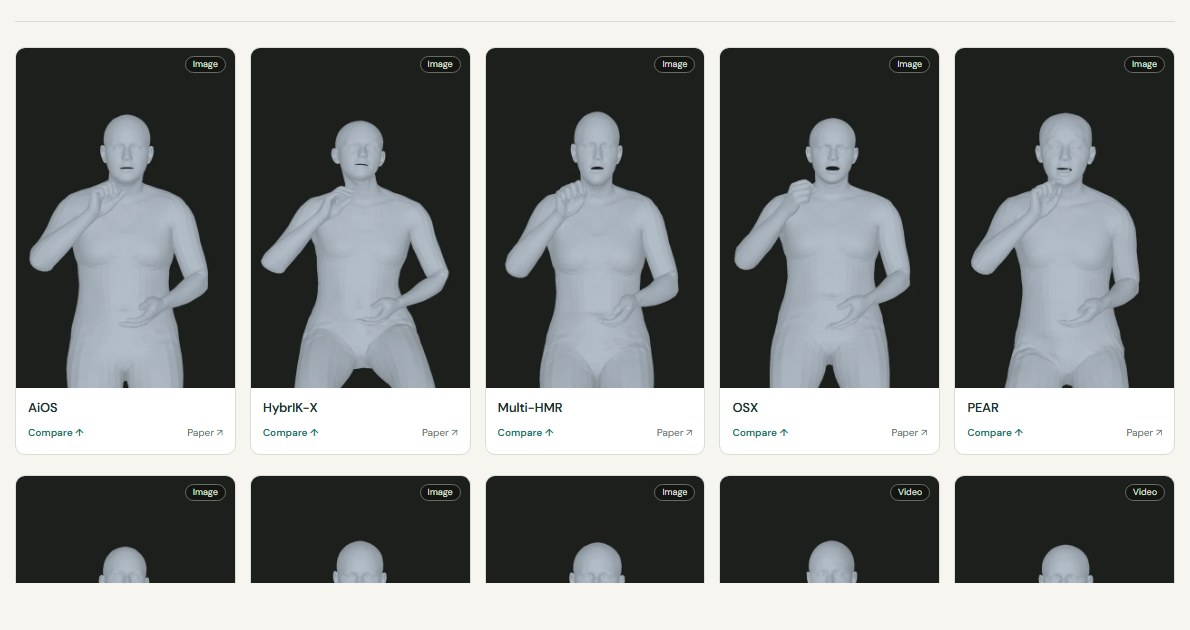
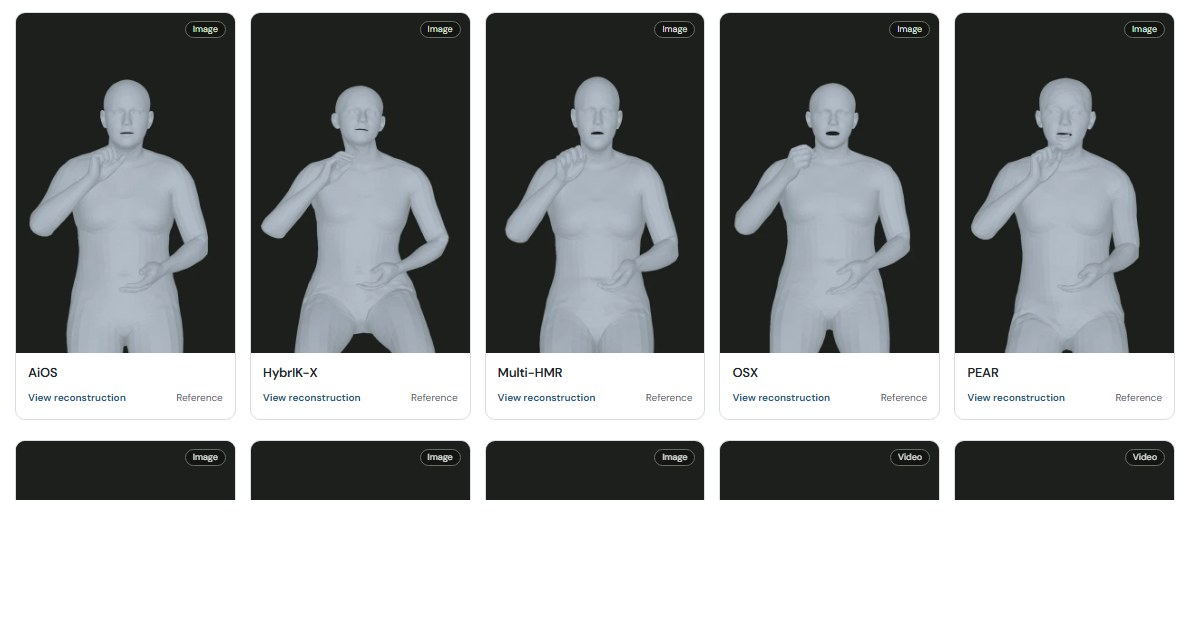
Use the article title and scientific presentation

diff --git a/index.html b/index.html
@@ -1,102 +1,82 @@
-<!doctype html>
+<!DOCTYPE html>
+
 <html lang="en">
 <head>
-  <meta charset="utf-8">
-  <meta name="viewport" content="width=device-width, initial-scale=1">
-  <meta name="theme-color" content="#f6f5f0">
-  <meta name="description" content="A visual study of how ten methods reconstruct sign language in 3D. Explore the methods, datasets, camera alignment, and body, face and hand results.">
-  <meta property="og:title" content="Sign in 3D — A sign is more than a pose">
-  <meta property="og:description" content="Ten methods. Three datasets. A closer look at the body, face and hands.">
-  <meta property="og:type" content="website">
-  <meta property="og:image" content="https://slate-uv.github.io/sign-in-3d/assets/images/social.jpg">
-  <link rel="canonical" href="https://slate-uv.github.io/sign-in-3d/">
-  <meta property="og:url" content="https://slate-uv.github.io/sign-in-3d/">
-  <title>Sign in 3D — A sign is more than a pose</title>
-  <link rel="icon" href="assets/favicon.svg" type="image/svg+xml">
-  <link rel="stylesheet" href="assets/fonts/body.css">
-  <link rel="stylesheet" href="assets/fonts/display.css">
-  <link rel="stylesheet" href="styles.css">
-  <script src="assets/results.js" defer></script>
-  <script src="app.js" defer></script>
+<meta charset="utf-8"/>
+<meta content="width=device-width, initial-scale=1" name="viewport"/>
+<meta content="#f6f5f0" name="theme-color"/>
+<meta content="Cross-corpus evaluation of ten human mesh recovery methods using regional mean reprojection error on PHOENIX-2014-T, CSL-Daily, and LSCh (OF-HMR)." name="description"/>
+<meta content="Cross-Corpus Evaluation of Multiple Pose Estimation Methods for Sign Language: Towards Metrics for Accurate Sign Representation" property="og:title"/>
+<meta content="Cross-corpus evaluation of ten human mesh recovery methods using regional mean reprojection error on PHOENIX-2014-T, CSL-Daily, and LSCh (OF-HMR)." property="og:description"/>
+<meta content="website" property="og:type"/>
+<meta content="https://slate-uv.github.io/cross-corpus-pose-evaluation/assets/images/social.jpg" property="og:image"/>
+<link href="https://slate-uv.github.io/cross-corpus-pose-evaluation/" rel="canonical"/>
+<meta content="https://slate-uv.github.io/cross-corpus-pose-evaluation/" property="og:url"/>
+<title>Cross-Corpus Evaluation of Multiple Pose Estimation Methods for Sign Language: Towards Metrics for Accurate Sign Representation</title>
+<link href="assets/favicon.svg" rel="icon" type="image/svg+xml"/>
+<link href="assets/fonts/body.css" rel="stylesheet"/>
+
+<link href="styles.css" rel="stylesheet"/>
+<script defer="" src="assets/results.js"></script>
+<script defer="" src="app.js"></script>
 </head>
 <body>
-  <a class="skip" href="#main">Skip to the study</a>
-  <header class="site-header">
-    <div class="nav-wrap">
-      <a class="brand" href="#main" aria-label="Sign in 3D, home"><span class="brand-symbol" aria-hidden="true">S<span>³</span></span> Sign in <strong>3D</strong></a>
-      <nav aria-label="Main navigation"><a href="#methods">Methods</a><a href="#datasets">Datasets</a><a href="#alignment">Alignment</a><a href="#results">Results</a></nav>
-      <a class="study-link" href="assets/study.pdf" target="_blank" rel="noopener">Read the study <span aria-hidden="true">↗</span></a>
-    </div>
-  </header>
-
-  <main id="main">
-    <section class="hero section-shell" aria-labelledby="hero-title">
-      <div class="hero-intro">
-        <div><p class="eyebrow"><span class="live-dot" aria-hidden="true"></span> Sign language · Human mesh recovery</p><h1 id="hero-title">A sign is more<br>than a <em>pose.</em></h1></div>
-        <div class="hero-copy"><p>Small movements carry meaning.</p><p>We compare how ten methods reconstruct a signer’s body, face and hands in 3D—and how better camera alignment changes the result.</p><a class="text-link" href="#results">Explore the findings <span aria-hidden="true">↓</span></a></div>
-      </div>
-
-      <div class="demo" id="comparison">
-        <div class="demo-toolbar"><div class="tabs" id="demo-tabs" role="group" aria-label="Choose a dataset"><button class="active" type="button" data-dataset="lsch" aria-pressed="true">LSCh</button><button type="button" data-dataset="phoenix" aria-pressed="false">PHOENIX</button><button type="button" data-dataset="csl" aria-pressed="false">CSL-Daily</button></div><label class="method-select">Method <select id="demo-method" aria-label="Choose a reconstruction method"><option>PEAR</option></select><span aria-hidden="true">⌄</span></label></div>
-        <div class="video-pair hero-pair">
-          <figure class="video-panel"><div class="panel-label"><span class="panel-dot original-dot"></span>Original video</div><video id="demo-original" muted playsinline preload="metadata" poster="assets/images/lsch-source.webp" aria-label="Original Chilean Sign Language recording"></video></figure>
-          <figure class="video-panel mesh-panel"><div class="panel-label"><span class="panel-dot mesh-dot"></span><span id="demo-reconstruction-label">PEAR reconstruction</span></div><video id="demo-mesh" muted playsinline preload="metadata" poster="assets/images/lsch-pear.webp" aria-label="Three-dimensional reconstruction of the same signing"></video><span class="corner-note">Same moment. Same viewpoint.</span></figure>
-        </div>
-        <div class="playback"><button class="play-button" id="demo-play" type="button" aria-label="Play synchronized comparison"><span class="play-icon" aria-hidden="true">▶</span><span class="play-text">Play comparison</span></button><input id="demo-progress" class="timeline" type="range" min="0" max="1000" value="0" aria-label="Comparison playback position"><span class="playback-time" id="demo-time">0:00</span><button class="replay-button" id="demo-replay" type="button" aria-label="Replay comparison">↺</button></div>
-        <p class="demo-caption" id="demo-caption">Chilean Sign Language · LSCh (OF-HMR)</p>
-      </div>
-
-      <div class="stat-row" aria-label="Scope of the shared evaluation"><div><strong>10</strong><span>methods compared</span></div><div><strong>3</strong><span>datasets evaluated</span></div><div><strong>79</strong><span>signing sequences</span></div><div><strong>790</strong><span>3D reconstructions</span></div></div>
-      <div class="research-credit"><span>Miguel Yáñez &amp; Ana Aguilera</span><span>Universidad de Valparaíso, Chile</span></div>
-    </section>
-
-    <section class="journey section-shell" aria-labelledby="journey-title">
-      <div class="section-heading compact"><p class="section-index">The study, at a glance</p><h2 id="journey-title">From a video to a fair comparison.</h2></div>
-      <ol class="journey-track"><li><span>01</span><strong>Gather the methods</strong><p>Review approaches that recover a full 3D person.</p></li><li><span>02</span><strong>Bring the data together</strong><p>Keep the original frames, timing and order.</p></li><li><span>03</span><strong>Reconstruct the signer</strong><p>Give every method the same video.</p></li><li><span>04</span><strong>Align the camera</strong><p>Match the viewpoint, size and placement.</p></li><li><span>05</span><strong>Look closer</strong><p>Measure the body, face and each hand.</p></li></ol>
-    </section>
-
-    <section class="methods-section section-shell" id="methods" aria-labelledby="methods-title">
-      <div class="section-heading"><div><p class="section-index">01 / The methods</p><h2 id="methods-title">Ten ways to recover<br>a person in <em>3D.</em></h2></div><p>Human Mesh Recovery turns an ordinary image or video into a 3D human model. We brought together methods that represent the body, articulated hands and face.</p></div>
-      <div class="selection-line"><span><strong>12</strong> approaches in the initial collection</span><span aria-hidden="true">→</span><span><strong>10</strong> in the single-camera comparison</span><span class="selection-note">8 image methods · 2 video methods</span></div>
-      <div id="method-grid" class="method-grid" aria-label="The ten evaluated methods"></div>
-      <div class="multi-view-note"><span class="small-label">Also reviewed</span><strong>MAMMA &amp; MKA</strong><p>The reviewed configurations use multiple camera views, so they sit outside this single-camera comparison.</p></div>
-    </section>
-
-    <section class="dataset-band" id="datasets" aria-labelledby="datasets-title"><div class="section-shell">
-      <div class="section-heading"><div><p class="section-index">02 / The datasets</p><h2 id="datasets-title">Different languages.<br>Different recording conditions.</h2></div><p>Weather broadcasts, daily conversations and controlled recordings bring different challenges. We preserve each sequence’s original order and timing.</p></div>
-      <div id="dataset-grid" class="dataset-grid"></div>
-      <div class="pilot-row"><img src="assets/images/how2sign-source.webp" alt="American Sign Language signer from the How2Sign pilot" width="240" height="135" loading="lazy"><div><span class="small-label">Earlier exploration · American Sign Language</span><h3>How2Sign</h3><p>A short pilot helped examine where hand-position scores and visible finger shapes disagree.</p><div class="pilot-links"><button id="pilot-open" class="text-link" type="button">Watch the pilot <span aria-hidden="true">↗</span></button><a href="https://how2sign.github.io/" target="_blank" rel="noopener">About the dataset ↗</a></div></div><span class="pilot-badge">Pilot study</span></div>
-    </div></section>
-
-    <section class="alignment-section section-shell" id="alignment" aria-labelledby="alignment-title">
-      <div class="section-heading"><div><p class="section-index">03 / The alignment</p><h2 id="alignment-title">Right motion.<br>Better <em>placement.</em></h2></div><p>A reconstruction can appear too small, too low or too far away. We adjust the camera and the model’s placement to match the recording, while keeping its articulated pose and body shape.</p></div>
-      <div class="alignment-toolbar"><span class="small-label">Multi-HMR · Before &amp; after</span><div class="tabs" id="alignment-tabs" role="group" aria-label="Choose an alignment example"><button class="active" type="button" data-dataset="csl" aria-pressed="true">CSL-Daily</button><button type="button" data-dataset="phoenix" aria-pressed="false">PHOENIX</button><button type="button" data-dataset="lsch" aria-pressed="false">LSCh</button></div></div>
-      <div class="alignment-view"><figure class="video-panel"><div class="panel-label">Original</div><video id="alignment-original" muted playsinline preload="none" poster="assets/images/csl-source.webp" aria-label="Original recording for the alignment comparison"></video></figure><figure class="video-panel mesh-panel"><div class="panel-label"><span class="before-dot panel-dot"></span>Before alignment</div><video id="alignment-before" muted playsinline preload="none" poster="assets/images/csl-before.webp" aria-label="Reconstruction before camera alignment"></video></figure><figure class="video-panel mesh-panel"><div class="panel-label"><span class="mesh-dot panel-dot"></span>After alignment</div><video id="alignment-after" muted playsinline preload="none" poster="assets/images/csl-multi-hmr.webp" aria-label="Reconstruction after camera alignment"></video></figure></div>
-      <div class="playback alignment-playback"><button class="play-button" id="alignment-play" type="button" aria-label="Play synchronized alignment comparison"><span class="play-icon" aria-hidden="true">▶</span><span class="play-text">Play comparison</span></button><input id="alignment-progress" class="timeline" type="range" min="0" max="1000" value="0" aria-label="Alignment playback position"><span class="playback-time" id="alignment-time">0:00</span><button class="replay-button" id="alignment-replay" type="button" aria-label="Replay alignment comparison">↺</button></div>
-      <div class="alignment-principles"><div><span aria-hidden="true">↔</span><strong>Match the viewpoint</strong><p>Adjust camera scale, position and perspective.</p></div><div><span aria-hidden="true">◯</span><strong>Keep the person intact</strong><p>Preserve body dimensions and articulated pose.</p></div><div><span aria-hidden="true">✓</span><strong>Check the whole sequence</strong><p>Review regional errors, motion and head visibility.</p></div></div>
-    </section>
-
-    <section class="detail-band" id="details" aria-labelledby="details-title"><div class="section-shell detail-layout"><div><p class="section-index">04 / Why the details matter</p><h2 id="details-title">A small average error<br>can hide a different<br><em>hand shape.</em></h2><p>Finger position, hand shape and facial expression all contribute to signing. A single whole-body score cannot tell the whole story.</p><p class="detail-takeaway">So we look at the body, face and each hand separately—and inspect the matching images.</p></div><figure class="hand-figure"><div class="hand-labels"><span>Original</span><span>PyMAF-X</span><span>PEAR</span><span>Multi-HMR</span></div><img src="assets/images/hand-closeups.webp" alt="The same right hand in the original recording and three reconstructions, showing different finger shapes" loading="lazy" width="1600" height="250"><figcaption>The same right hand. Different reconstructions.</figcaption></figure></div></section>
-
-    <section class="results-section section-shell" id="results" aria-labelledby="results-title">
-      <div class="section-heading"><div><p class="section-index">05 / The results</p><h2 id="results-title">Look at every part.</h2></div><p>We measure the distance between matching points in the original image and the 3D reconstruction, seen through its camera. Smaller distances mean closer alignment.</p></div>
-      <div class="result-controls"><div class="tabs" id="result-tabs" role="group" aria-label="Choose results dataset"><button class="active" type="button" data-dataset="phoenix" aria-pressed="true">PHOENIX</button><button type="button" data-dataset="csl" aria-pressed="false">CSL-Daily</button><button type="button" data-dataset="lsch" aria-pressed="false">LSCh</button></div><label class="metric-select">Compare <select id="result-metric" aria-label="Choose the error measure"><option value="mre">Overall</option><option value="body">Body</option><option value="face">Face</option><option value="left_hand">Left hand</option><option value="right_hand">Right hand</option></select></label></div>
-      <div class="chart-heading"><div><h3 id="chart-title">Overall alignment</h3><p id="chart-subtitle">PHOENIX-2014-T · 42 sequences</p></div><span class="lower-badge"><span aria-hidden="true">↓</span> Lower is better</span></div>
-      <div id="result-chart" class="result-chart" role="img" aria-label="Mean reprojection errors for the ten methods"></div>
-      <div class="chart-footnote"><span>Average distance in pixels</span><span>One dataset at a time: image sizes differ.</span></div>
-      <div class="finding" id="result-finding" aria-live="polite"></div>
-      <div class="table-heading"><h3>All five measures</h3><span>Mean ± variation between sequences · pixels</span></div>
-      <div class="table-scroll" tabindex="0" role="region" aria-label="Detailed results; scroll horizontally on small screens"><table id="results-table"><caption id="results-caption">PHOENIX-2014-T results</caption><thead><tr><th scope="col">Method</th><th scope="col">Overall MRE</th><th scope="col">Body</th><th scope="col">Face</th><th scope="col">Left hand</th><th scope="col">Right hand</th></tr></thead><tbody></tbody></table></div>
-      <p class="measurement-note" id="measurement-note"></p>
-      <details class="measurement-details"><summary>What is being measured?<span aria-hidden="true">+</span></summary><div><p><strong>MRE</strong> means mean reprojection error: the average distance between corresponding points, measured in the original image’s pixels.</p><p>The comparison uses 99 points: six body points at the shoulders, elbows and wrists; 51 points inside the face; and 21 points per hand. Body error excludes face and finger points. All ten methods use the same eligible observations.</p><p>Errors are averaged within each sequence, then across sequences. The ± value is the sample standard deviation. Bold values mark the lowest mean in each column.</p><p>The reference points are estimated automatically. Camera alignment uses those same references. These results describe 2D agreement on the evaluated sequences; they do not establish 3D accuracy or preservation of linguistic meaning.</p></div></details>
-    </section>
-
-    <section class="closing-section section-shell"><p class="section-index">What this work brings together</p><h2>A shared way to look<br><em>closer at signing.</em></h2><p>A collection of reconstruction methods. A common evaluation across three datasets. Camera alignment that preserves the pose. And a separate look at every hand.</p><a class="button-primary" href="assets/study.pdf" target="_blank" rel="noopener">Read the full study <span aria-hidden="true">↗</span></a><span class="evaluation-date">Shared evaluation · 25 October 2026</span></section>
-  </main>
-
-  <footer class="site-footer section-shell"><div><a class="brand" href="#main">Sign in <strong>3D</strong></a><p>Miguel Yáñez &amp; Ana Aguilera<br>Universidad de Valparaíso, Chile</p></div><div class="footer-sources"><span class="small-label">Dataset sources</span><a href="https://www-i6.informatik.rwth-aachen.de/~koller/RWTH-PHOENIX-2014-T/" target="_blank" rel="noopener">RWTH-PHOENIX-2014-T ↗</a><a href="https://ustc-slr.github.io/datasets/2021_csl_daily/" target="_blank" rel="noopener">CSL-Daily ↗</a><a href="https://how2sign.github.io/" target="_blank" rel="noopener">How2Sign ↗</a></div><div class="media-credit"><span class="small-label">Research media</span><p>Recordings are credited to their respective datasets. LSCh examples are from OF-HMR.</p><p>How2Sign: Duarte et al., CVPR 2021 · <a href="https://creativecommons.org/licenses/by-nc/4.0/" target="_blank" rel="noopener">CC BY-NC 4.0</a>. Excerpts are resized for display.</p></div></footer>
-
-  <dialog id="pilot-dialog" aria-labelledby="pilot-title"><div class="dialog-heading"><div><span class="small-label">Earlier exploration</span><h2 id="pilot-title">How2Sign · American Sign Language</h2></div><button id="pilot-close" type="button" class="dialog-close" aria-label="Close pilot comparison">×</button></div><div class="video-pair"><figure class="video-panel"><div class="panel-label">Original</div><video id="pilot-original" muted playsinline preload="none" poster="assets/images/how2sign-source.webp" aria-label="Original How2Sign pilot sequence"></video></figure><figure class="video-panel mesh-panel"><div class="panel-label">Multi-HMR reconstruction</div><video id="pilot-mesh" muted playsinline preload="none" poster="assets/images/how2sign-reconstruction.webp" aria-label="Multi-HMR reconstruction of the How2Sign pilot"></video></figure></div><div class="playback"><button id="pilot-play" class="play-button" type="button"><span class="play-icon" aria-hidden="true">▶</span><span class="play-text">Play comparison</span></button><input id="pilot-progress" class="timeline" type="range" min="0" max="1000" value="0" aria-label="Pilot comparison playback position"><span class="playback-time" id="pilot-time">0:00</span><button id="pilot-replay" class="replay-button" type="button" aria-label="Replay pilot comparison">↺</button></div><p class="dialog-note">An exploratory sequence, separate from the three-dataset results above. How2Sign: Duarte et al., CVPR 2021.</p></dialog>
-  <noscript><p class="noscript-note">Interactive comparisons need JavaScript. The full study is available above.</p></noscript>
+<a class="skip" href="#main">Skip to the study</a>
+<header class="site-header">
+<div class="nav-wrap">
+<nav aria-label="Main navigation"><a href="#methods">Methods</a><a href="#datasets">Datasets</a><a href="#alignment">Alignment</a><a href="#results">Results</a></nav>
+</div>
+</header>
+<main id="main">
+<section aria-labelledby="hero-title" class="hero section-shell">
+<div class="hero-intro"><h1 id="hero-title">Cross-Corpus Evaluation of Multiple Pose Estimation Methods for Sign Language: Towards Metrics for Accurate Sign Representation</h1><div class="article-authors">Miguel Yáñez &amp; Ana Aguilera</div><p class="article-affiliation">Universidad de Valparaíso, Chile</p><div class="article-abstract"><h2>Abstract</h2><p>Ten human mesh recovery methods are evaluated on PHOENIX-2014-T, CSL-Daily, and Chilean Sign Language recordings from OF-HMR. The comparison includes 79 sequences, 7,002 source frames, and 790 reconstructions. Camera and placement alignment preserve articulated pose and body dimensions. Mean reprojection error is reported separately for the body, face, left hand, and right hand.</p></div></div>
+<div class="demo" id="comparison">
+<div class="demo-toolbar"><div aria-label="Choose a dataset" class="tabs" id="demo-tabs" role="group"><button aria-pressed="true" class="active" data-dataset="lsch" type="button">LSCh</button><button aria-pressed="false" data-dataset="phoenix" type="button">PHOENIX</button><button aria-pressed="false" data-dataset="csl" type="button">CSL-Daily</button></div><label class="method-select">Method <select aria-label="Choose a reconstruction method" id="demo-method"><option>PEAR</option></select><span aria-hidden="true">⌄</span></label></div>
+<div class="video-pair hero-pair">
+<figure class="video-panel"><div class="panel-label"><span class="panel-dot original-dot"></span>Original video</div><video aria-label="Original Chilean Sign Language recording" id="demo-original" muted="" playsinline="" poster="assets/images/lsch-source.webp" preload="metadata"></video></figure>
+<figure class="video-panel mesh-panel"><div class="panel-label"><span class="panel-dot mesh-dot"></span><span id="demo-reconstruction-label">PEAR reconstruction</span></div><video aria-label="Three-dimensional reconstruction of the same signing" id="demo-mesh" muted="" playsinline="" poster="assets/images/lsch-pear.webp" preload="metadata"></video></figure>
+</div>
+<div class="playback"><button aria-label="Play synchronized comparison" class="play-button" id="demo-play" type="button"><span aria-hidden="true" class="play-icon">▶</span><span class="play-text">Play comparison</span></button><input aria-label="Comparison playback position" class="timeline" id="demo-progress" max="1000" min="0" type="range" value="0"/><span class="playback-time" id="demo-time">0:00</span><button aria-label="Replay comparison" class="replay-button" id="demo-replay" type="button">↺</button></div>
+<p class="demo-caption" id="demo-caption">Chilean Sign Language · LSCh (OF-HMR)</p>
+</div>
+</section>
+<section aria-labelledby="journey-title" class="journey section-shell">
+<div class="section-heading compact"><h2 id="journey-title">Evaluation protocol</h2></div>
+<ol class="journey-track"><li><span>01</span><strong>Method selection</strong><p>Monocular reconstruction of the body, articulated hands, and face.</p></li><li><span>02</span><strong>Dataset preparation</strong><p>Original frame order, image dimensions, and recording rate.</p></li><li><span>03</span><strong>3D reconstruction</strong><p>Identical source sequences for all evaluated methods.</p></li><li><span>04</span><strong>Camera alignment</strong><p>Camera intrinsics and source-driven placement estimation.</p></li><li><span>05</span><strong>Regional evaluation</strong><p>Overall, body, face, and separate left- and right-hand errors.</p></li></ol>
+</section>
+<section aria-labelledby="methods-title" class="methods-section section-shell" id="methods">
+<div class="section-heading"><div><h2 id="methods-title">1. HMR methods</h2></div><p>Selected methods reconstruct the body, articulated hands, and facial expression from monocular RGB images or video.</p></div>
+<div aria-label="The ten evaluated methods" class="method-grid" id="method-grid"></div>
+<div class="multi-view-note"><span class="small-label">Multiview methods</span><strong>MAMMA &amp; MKA</strong><p>MAMMA and the reviewed MKA configuration require calibrated multiview input and were excluded from the monocular comparison.</p></div>
+</section>
+<section aria-labelledby="datasets-title" class="dataset-band" id="datasets"><div class="section-shell">
+<div class="section-heading"><div><h2 id="datasets-title">2. Datasets</h2></div><p>PHOENIX-2014-T, CSL-Daily, and LSCh (OF-HMR) are evaluated at their available image resolutions and frame rates. Frame order and timing are preserved.</p></div>
+<div class="dataset-grid" id="dataset-grid"></div>
+<div class="pilot-row"><img alt="American Sign Language signer from the How2Sign pilot" height="135" loading="lazy" src="assets/images/how2sign-source.webp" width="240"/><div><span class="small-label">Supplementary evaluation · American Sign Language</span><h3>How2Sign</h3><p>An earlier How2Sign experiment examined hand-position errors and finger configuration on a short ASL sequence.</p><div class="pilot-links"><button class="text-link" id="pilot-open" type="button">Video comparison</button><a href="https://how2sign.github.io/" rel="noopener" target="_blank">About the dataset ↗</a></div></div><span class="pilot-badge">Exploratory evaluation</span></div>
+</div></section>
+<section aria-labelledby="alignment-title" class="alignment-section section-shell" id="alignment">
+<div class="section-heading"><div><h2 id="alignment-title">3. Camera and placement alignment</h2></div><p>Camera intrinsics and a translation trajectory are estimated to align each reconstruction with the source images. Articulated pose, orientation, and body dimensions are preserved.</p></div>
+<div class="alignment-toolbar"><span class="small-label">Multi-HMR · Before &amp; after</span><div aria-label="Choose an alignment example" class="tabs" id="alignment-tabs" role="group"><button aria-pressed="true" class="active" data-dataset="csl" type="button">CSL-Daily</button><button aria-pressed="false" data-dataset="phoenix" type="button">PHOENIX</button><button aria-pressed="false" data-dataset="lsch" type="button">LSCh</button></div></div>
+<div class="alignment-view"><figure class="video-panel"><div class="panel-label">Original</div><video aria-label="Original recording for the alignment comparison" id="alignment-original" muted="" playsinline="" poster="assets/images/csl-source.webp" preload="none"></video></figure><figure class="video-panel mesh-panel"><div class="panel-label"><span class="before-dot panel-dot"></span>Before alignment</div><video aria-label="Reconstruction before camera alignment" id="alignment-before" muted="" playsinline="" poster="assets/images/csl-before.webp" preload="none"></video></figure><figure class="video-panel mesh-panel"><div class="panel-label"><span class="mesh-dot panel-dot"></span>After alignment</div><video aria-label="Reconstruction after camera alignment" id="alignment-after" muted="" playsinline="" poster="assets/images/csl-multi-hmr.webp" preload="none"></video></figure></div>
+<div class="playback alignment-playback"><button aria-label="Play synchronized alignment comparison" class="play-button" id="alignment-play" type="button"><span aria-hidden="true" class="play-icon">▶</span><span class="play-text">Play comparison</span></button><input aria-label="Alignment playback position" class="timeline" id="alignment-progress" max="1000" min="0" type="range" value="0"/><span class="playback-time" id="alignment-time">0:00</span><button aria-label="Replay alignment comparison" class="replay-button" id="alignment-replay" type="button">↺</button></div>
+<div class="alignment-principles"><div><strong>Camera parameters</strong><p>Constant intrinsics and a source-driven translation trajectory.</p></div><div><strong>Preserved properties</strong><p>Articulated pose, orientation, and body dimensions.</p></div><div><strong>Sequence assessment</strong><p>Regional errors, source-motion agreement, and head visibility.</p></div></div>
+</section>
+<section aria-labelledby="details-title" class="detail-band" id="details"><div class="section-shell detail-layout"><div><h2 id="details-title">4. Regional evaluation</h2><p>Aggregate localization error can obscure differences in finger configuration. Body, face, left-hand, and right-hand errors are therefore reported separately.</p><p>Corresponding source and reconstructed images provide a qualitative comparison of hand configuration.</p></div><figure class="hand-figure"><div class="hand-labels"><span>Original</span><span>PyMAF-X</span><span>PEAR</span><span>Multi-HMR</span></div><img alt="The same right hand in the original recording and three reconstructions, showing different finger shapes" height="250" loading="lazy" src="assets/images/hand-closeups.webp" width="1600"/><figcaption>Right-hand region in the source image and three HMR reconstructions.</figcaption></figure></div></section>
+<section aria-labelledby="results-title" class="results-section section-shell" id="results">
+<div class="section-heading"><div><h2 id="results-title">5. Results</h2></div><p>Mean reprojection error (MRE) is the mean distance between corresponding source-image keypoints and projected mesh keypoints, expressed in pixels.</p></div>
+<div class="result-controls"><div aria-label="Choose results dataset" class="tabs" id="result-tabs" role="group"><button aria-pressed="true" class="active" data-dataset="phoenix" type="button">PHOENIX</button><button aria-pressed="false" data-dataset="csl" type="button">CSL-Daily</button><button aria-pressed="false" data-dataset="lsch" type="button">LSCh</button></div><label class="metric-select">Compare <select aria-label="Choose the error measure" id="result-metric"><option value="mre">Overall</option><option value="body">Body</option><option value="face">Face</option><option value="left_hand">Left hand</option><option value="right_hand">Right hand</option></select></label></div>
+<div class="chart-heading"><div><h3 id="chart-title">Overall MRE</h3><p id="chart-subtitle">PHOENIX-2014-T · 42 sequences</p></div><span class="lower-badge">MRE (pixels)</span></div>
+<div aria-label="Mean reprojection errors for the ten methods" class="result-chart" id="result-chart" role="img"></div>
+<div class="chart-footnote"><span>Mean reprojection error (pixels)</span><span>Within-dataset comparisons; image resolutions differ.</span></div>
+<div aria-live="polite" class="finding" id="result-finding"></div>
+<div class="table-heading"><h3>Regional MRE</h3><span>Mean ± sample standard deviation (pixels)</span></div>
+<div aria-label="Detailed results; scroll horizontally on small screens" class="table-scroll" role="region" tabindex="0"><table id="results-table"><caption id="results-caption">PHOENIX-2014-T results</caption><thead><tr><th scope="col">Method</th><th scope="col">Overall MRE</th><th scope="col">Body</th><th scope="col">Face</th><th scope="col">Left hand</th><th scope="col">Right hand</th></tr></thead><tbody></tbody></table></div>
+<p class="measurement-note" id="measurement-note"></p>
+<details class="measurement-details"><summary>Evaluation measures and limitations<span aria-hidden="true">+</span></summary><div><p><strong>MRE</strong> means mean reprojection error: the average distance between corresponding points, measured in the original image’s pixels.</p><p>The comparison uses 99 points: six body points at the shoulders, elbows and wrists; 51 points inside the face; and 21 points per hand. Body error excludes face and finger points. All ten methods use the same eligible observations.</p><p>Errors are averaged within each sequence, then across sequences. The ± value is the sample standard deviation. Bold values mark the lowest mean in each column.</p><p>The reference points are estimated automatically. Camera alignment uses those same references. These results describe 2D agreement on the evaluated sequences; they do not establish 3D accuracy or preservation of linguistic meaning.</p></div></details>
+</section>
+</main>
+<footer class="site-footer section-shell"><div><p>Miguel Yáñez &amp; Ana Aguilera<br/>Universidad de Valparaíso, Chile</p></div><div class="footer-sources"><span class="small-label">Dataset sources</span><a href="https://www-i6.informatik.rwth-aachen.de/~koller/RWTH-PHOENIX-2014-T/" rel="noopener" target="_blank">RWTH-PHOENIX-2014-T ↗</a><a href="https://ustc-slr.github.io/datasets/2021_csl_daily/" rel="noopener" target="_blank">CSL-Daily ↗</a><a href="https://how2sign.github.io/" rel="noopener" target="_blank">How2Sign ↗</a></div><div class="media-credit"><span class="small-label">Research media</span><p>Recordings are credited to their respective datasets. LSCh examples are from OF-HMR.</p><p>How2Sign: Duarte et al., CVPR 2021 · <a href="https://creativecommons.org/licenses/by-nc/4.0/" rel="noopener" target="_blank">CC BY-NC 4.0</a>. Excerpts are resized for display.</p></div></footer>
+<dialog aria-labelledby="pilot-title" id="pilot-dialog"><div class="dialog-heading"><div><span class="small-label">Supplementary evaluation</span><h2 id="pilot-title">How2Sign · American Sign Language</h2></div><button aria-label="Close pilot comparison" class="dialog-close" id="pilot-close" type="button">×</button></div><div class="video-pair"><figure class="video-panel"><div class="panel-label">Original</div><video aria-label="Original How2Sign pilot sequence" id="pilot-original" muted="" playsinline="" poster="assets/images/how2sign-source.webp" preload="none"></video></figure><figure class="video-panel mesh-panel"><div class="panel-label">Multi-HMR reconstruction</div><video aria-label="Multi-HMR reconstruction of the How2Sign pilot" id="pilot-mesh" muted="" playsinline="" poster="assets/images/how2sign-reconstruction.webp" preload="none"></video></figure></div><div class="playback"><button class="play-button" id="pilot-play" type="button"><span aria-hidden="true" class="play-icon">▶</span><span class="play-text">Play comparison</span></button><input aria-label="Pilot comparison playback position" class="timeline" id="pilot-progress" max="1000" min="0" type="range" value="0"/><span class="playback-time" id="pilot-time">0:00</span><button aria-label="Replay pilot comparison" class="replay-button" id="pilot-replay" type="button">↺</button></div><p class="dialog-note">Exploratory How2Sign sequence, evaluated separately from the three-dataset comparison. How2Sign: Duarte et al., CVPR 2021.</p></dialog>
+<noscript><p class="noscript-note">Interactive comparisons require JavaScript.</p></noscript>
 </body>
 </html>

diff --git a/styles.css b/styles.css
@@ -7,3 +7,12 @@
 @media(prefers-reduced-motion:reduce){html{scroll-behavior:auto}*,*:before,*:after{transition:none!important;animation:none!important}}
 .hero-pair .video-panel{aspect-ratio:var(--pair-ratio,1.3333)}
 @media(max-width:760px){.demo-toolbar{display:grid;grid-template-columns:1fr;gap:9px}.demo-toolbar .tabs{width:100%;flex-wrap:nowrap}.demo-toolbar .tabs button{flex:1}.demo-toolbar .method-select{font-size:10px;justify-content:space-between;gap:12px}.demo-toolbar .method-select select{width:calc(100% - 66px)}}
+:root{--paper:#fff;--ink:#20252b;--muted:#5c6570;--teal:#27567a;--lime:#e4ebf1;--line:#d8dde3;--warm:#f4f6f7}
+.site-header{height:60px;background:rgba(255,255,255,.97)}
+.nav-wrap{justify-content:center}.site-header nav{gap:40px}.site-header nav a{font-size:13px}.site-header nav a.active:after{display:none}
+h1,h2{font-family:Georgia,'Times New Roman',serif;font-style:normal;font-weight:600;letter-spacing:-.02em;line-height:1.25}
+h1{font-size:36px;max-width:1060px;margin:0 auto}h2,.compact h2{font-size:29px}.hero{padding-top:48px}.hero-intro{display:block;text-align:center;margin-bottom:34px}.article-authors{font-size:17px;margin-top:24px}.article-affiliation{font-size:14px;color:var(--muted);margin-top:4px}.article-abstract{max-width:860px;margin:32px auto 0;text-align:left}.article-abstract h2{font-size:18px;margin-bottom:10px}.article-abstract p{font-size:14px;line-height:1.85;color:var(--ink)}
+.journey{padding-top:65px;padding-bottom:60px}.section-heading{align-items:flex-start;gap:45px;margin-bottom:28px}.section-heading>div{max-width:620px}.section-heading>p{font-size:14px}.methods-section{padding-bottom:70px}.method-actions{flex-wrap:wrap;gap:6px}.multi-view-note{margin-top:24px}.dataset-band{background:#f4f6f7;padding:60px 0}.dataset-card{background:#fff;border:1px solid var(--line)}.pilot-row{border-top-color:var(--line)}.alignment-section{padding-top:70px;padding-bottom:65px}.alignment-principles>div{display:block}.alignment-principles strong{font-size:12px}.alignment-principles p{font-size:12px}.detail-band{background:#f4f6f7;color:var(--ink);padding:55px 0;border-block:1px solid var(--line)}.detail-layout h2{font-size:29px}.detail-layout p:not(.section-index){color:var(--muted);font-size:13px}.hand-labels{color:var(--ink)}.hand-figure figcaption{color:var(--muted)}.results-section{padding-top:70px;padding-bottom:65px}.finding{background:transparent;border-left:0;border-top:1px solid var(--line);padding:18px 0}.finding strong{color:var(--ink)}.chart-row.best .chart-name,.chart-row.best .chart-value,td.best-value{color:var(--ink)}td.best-value{background:#edf1f4}.chart-track{background:#edf0f3}.chart-fill{background:#7b8e9d}.chart-row.best .chart-fill{background:var(--teal)}.measurement-details{margin-bottom:15px}.site-footer{margin-top:0}.dialog-heading h2{font-family:Georgia,'Times New Roman',serif;font-size:21px}.tabs{background:#f0f2f4}.tabs button.active{background:var(--ink)}
+@media(max-width:1000px){h1{font-size:32px}.section-heading>div{max-width:440px}.detail-layout h2{font-size:27px}}
+@media(max-width:760px){.site-header{height:56px}.site-header nav{gap:30px}.site-header nav a:nth-child(2),.site-header nav a:nth-child(3){display:inline}.site-header nav a{font-size:11px}.hero{padding-top:30px}h1{font-size:25px;line-height:1.3;letter-spacing:-.015em}.hero-intro{margin-bottom:25px}.article-authors{font-size:14px;margin-top:20px}.article-affiliation{font-size:12px}.article-abstract{margin-top:24px}.article-abstract h2{font-size:17px}.article-abstract p{font-size:13px;line-height:1.8}h2,.compact h2,.detail-layout h2{font-size:25px}.section-heading>div{max-width:none}.section-heading>p,.results-section .section-heading>p{font-size:13px;margin-top:15px}.journey{padding-top:45px;padding-bottom:40px}.methods-section{padding-bottom:45px}.dataset-band{padding:45px 0}.alignment-section{padding-top:45px;padding-bottom:45px}.alignment-principles strong,.alignment-principles p{font-size:11px}.detail-band{padding:45px 0}.results-section{padding-top:45px;padding-bottom:40px}.table-heading h3{font-size:16px}.site-footer{gap:20px}.dialog-heading h2{font-size:19px}}
+@media(max-width:380px){.site-header nav{gap:24px}h1{font-size:23px}}

diff --git a/app.js b/app.js
@@ -5,7 +5,7 @@
   if (!study) return;
   const $ = (selector) => document.querySelector(selector);
   const datasets = Object.fromEntries(study.datasets.map((d) => [d.id, d]));
-  const names = {mre: 'Overall alignment', body: 'Body alignment', face: 'Face alignment', left_hand: 'Left-hand alignment', right_hand: 'Right-hand alignment'};
+  const names = {mre: 'Overall MRE', body: 'Body MRE', face: 'Face MRE', left_hand: 'Left-hand MRE', right_hand: 'Right-hand MRE'};
   const regions = ['mre', 'body', 'face', 'left_hand', 'right_hand'];
   const format = (number) => number.toFixed(2);
   const reducedMotion = window.matchMedia('(prefers-reduced-motion: reduce)').matches;
@@ -146,7 +146,7 @@
 
   $('#method-grid').innerHTML = study.methods.map((method) => {
     const media = datasets.lsch.methods[method.name];
-    return `<article class="method-card"><div class="method-image"><img src="${media.poster}" alt="${method.name} reconstruction of the same Chilean Sign Language frame" width="400" height="340" loading="lazy"><span class="method-input">${method.input}</span></div><div class="method-card-text"><h3>${method.name}</h3><div class="method-actions"><button type="button" data-method="${method.name}" aria-label="Compare ${method.name} with the original video">Compare ↑</button>${method.paper ? `<a href="${method.paper}" target="_blank" rel="noopener" aria-label="Read the ${method.name} research paper">Paper ↗</a>` : ''}</div></div></article>`;
+    return `<article class="method-card"><div class="method-image"><img src="${media.poster}" alt="${method.name} reconstruction of the same Chilean Sign Language frame" width="400" height="340" loading="lazy"><span class="method-input">${method.input}</span></div><div class="method-card-text"><h3>${method.name}</h3><div class="method-actions"><button type="button" data-method="${method.name}" aria-label="Compare ${method.name} with the original video">View reconstruction</button>${method.paper ? `<a href="${method.paper}" target="_blank" rel="noopener" aria-label="Read the ${method.name} research paper">Reference</a>` : ''}</div></div></article>`;
   }).join('');
   $('#method-grid').addEventListener('click', (event) => {
     const button = event.target.closest('button[data-method]');
@@ -160,9 +160,9 @@
   });
 
   const datasetInfo = {
-    lsch: {title: 'LSCh · OF-HMR', description: 'Controlled recordings of Chilean Sign Language, evaluated from a single view.', link: '#comparison', label: 'Explore the recordings ↑'},
-    phoenix: {title: 'PHOENIX-2014-T', description: 'Weather interpretation with small, tightly framed images.', link: 'https://www-i6.informatik.rwth-aachen.de/~koller/RWTH-PHOENIX-2014-T/', label: 'About the dataset ↗'},
-    csl: {title: 'CSL-Daily', description: 'Everyday topics, natural signing and frequent hand–body interaction.', link: 'https://ustc-slr.github.io/datasets/2021_csl_daily/', label: 'About the dataset ↗'}
+    lsch: {title: 'LSCh · OF-HMR', description: 'Chilean Sign Language recordings evaluated from a single camera view.', link: '#comparison', label: 'Video comparison'},
+    phoenix: {title: 'PHOENIX-2014-T', description: 'German Sign Language interpretations of television weather forecasts.', link: 'https://www-i6.informatik.rwth-aachen.de/~koller/RWTH-PHOENIX-2014-T/', label: 'Dataset source'},
+    csl: {title: 'CSL-Daily', description: 'Chinese Sign Language recordings of daily-life topics.', link: 'https://ustc-slr.github.io/datasets/2021_csl_daily/', label: 'Dataset source'}
   };
   $('#dataset-grid').innerHTML = study.datasets.map((dataset) => {
     const info = datasetInfo[dataset.id];

diff --git a/README.md b/README.md
@@ -1,7 +1,7 @@
-# Sign in 3D
-
-A visual study of sign-language reconstruction: ten methods, three datasets, camera alignment, and separate results for the body, face and both hands.
+# Cross-Corpus Evaluation of Multiple Pose Estimation Methods for Sign Language: Towards Metrics for Accurate Sign Representation
 
 Miguel Yáñez and Ana Aguilera · Universidad de Valparaíso, Chile.
+
+Evaluation of ten HMR methods on PHOENIX-2014-T, CSL-Daily, and LSCh (OF-HMR), including camera alignment and regional reprojection errors.
 
 Research media are credited on the page. Dataset materials retain their original conditions of use.
